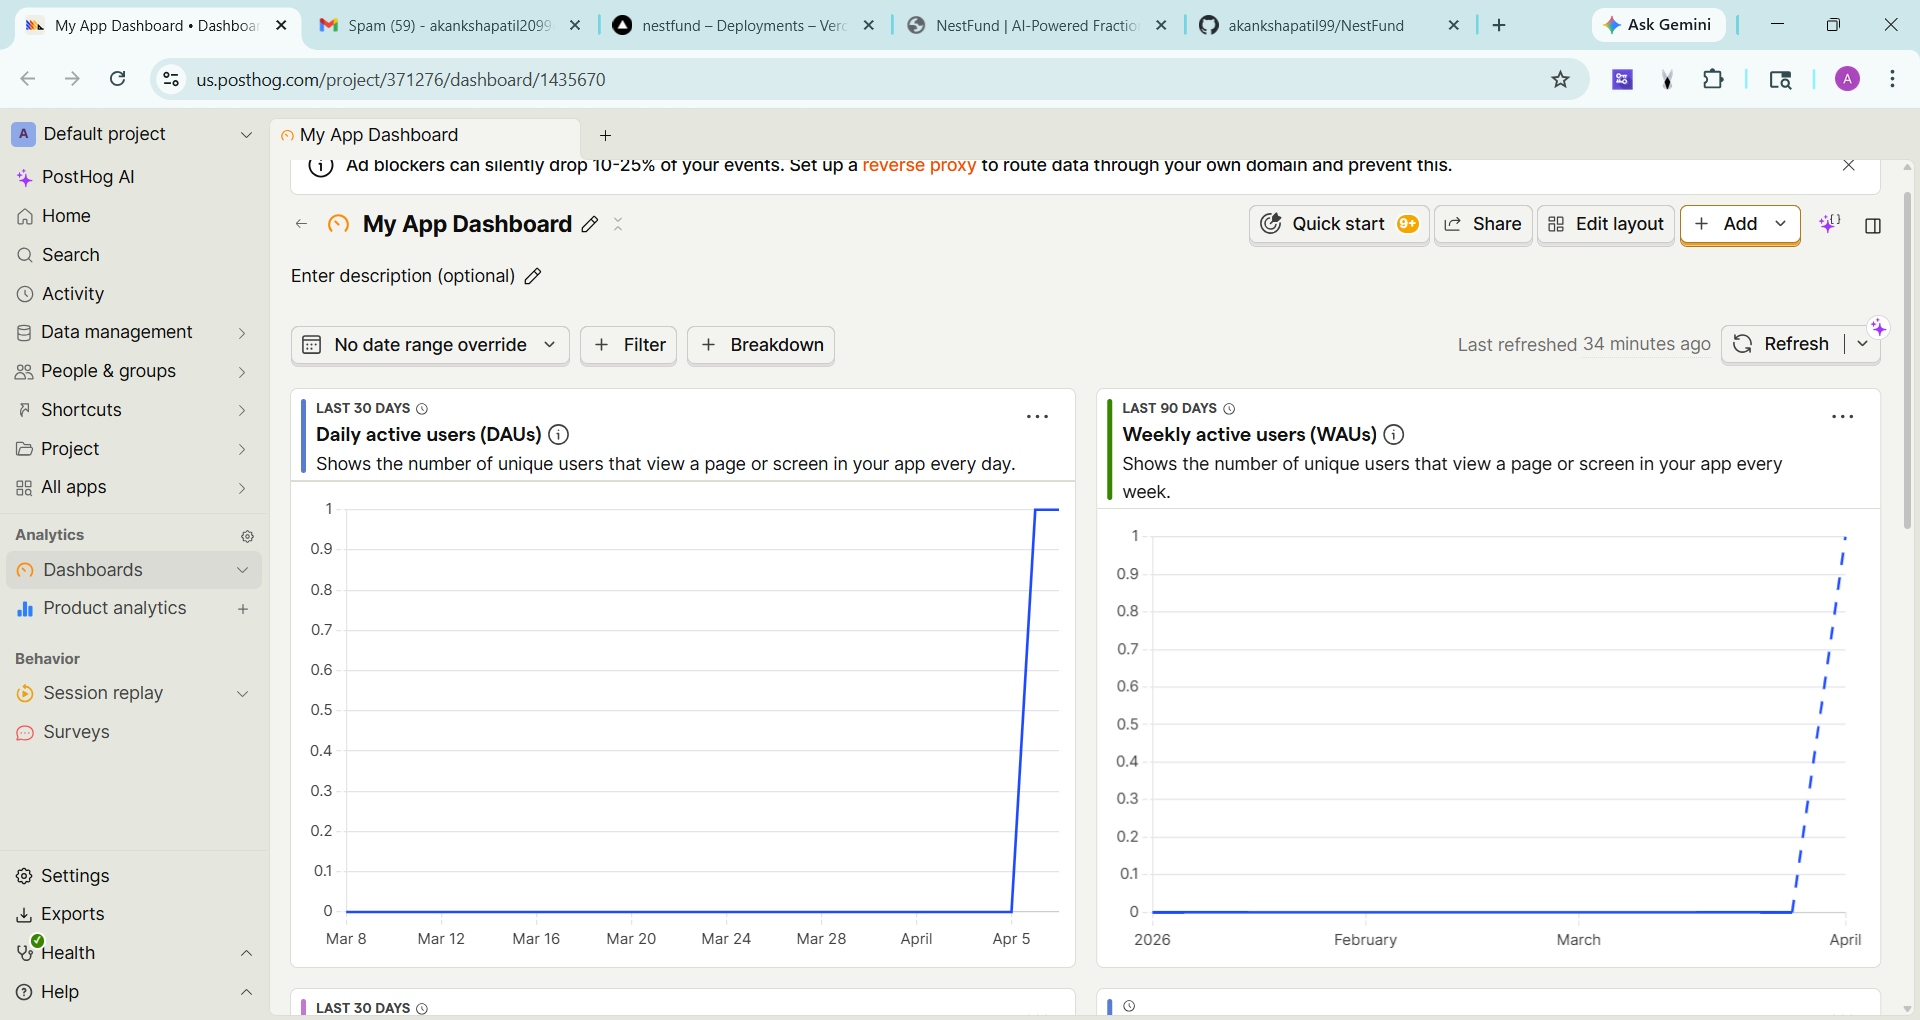
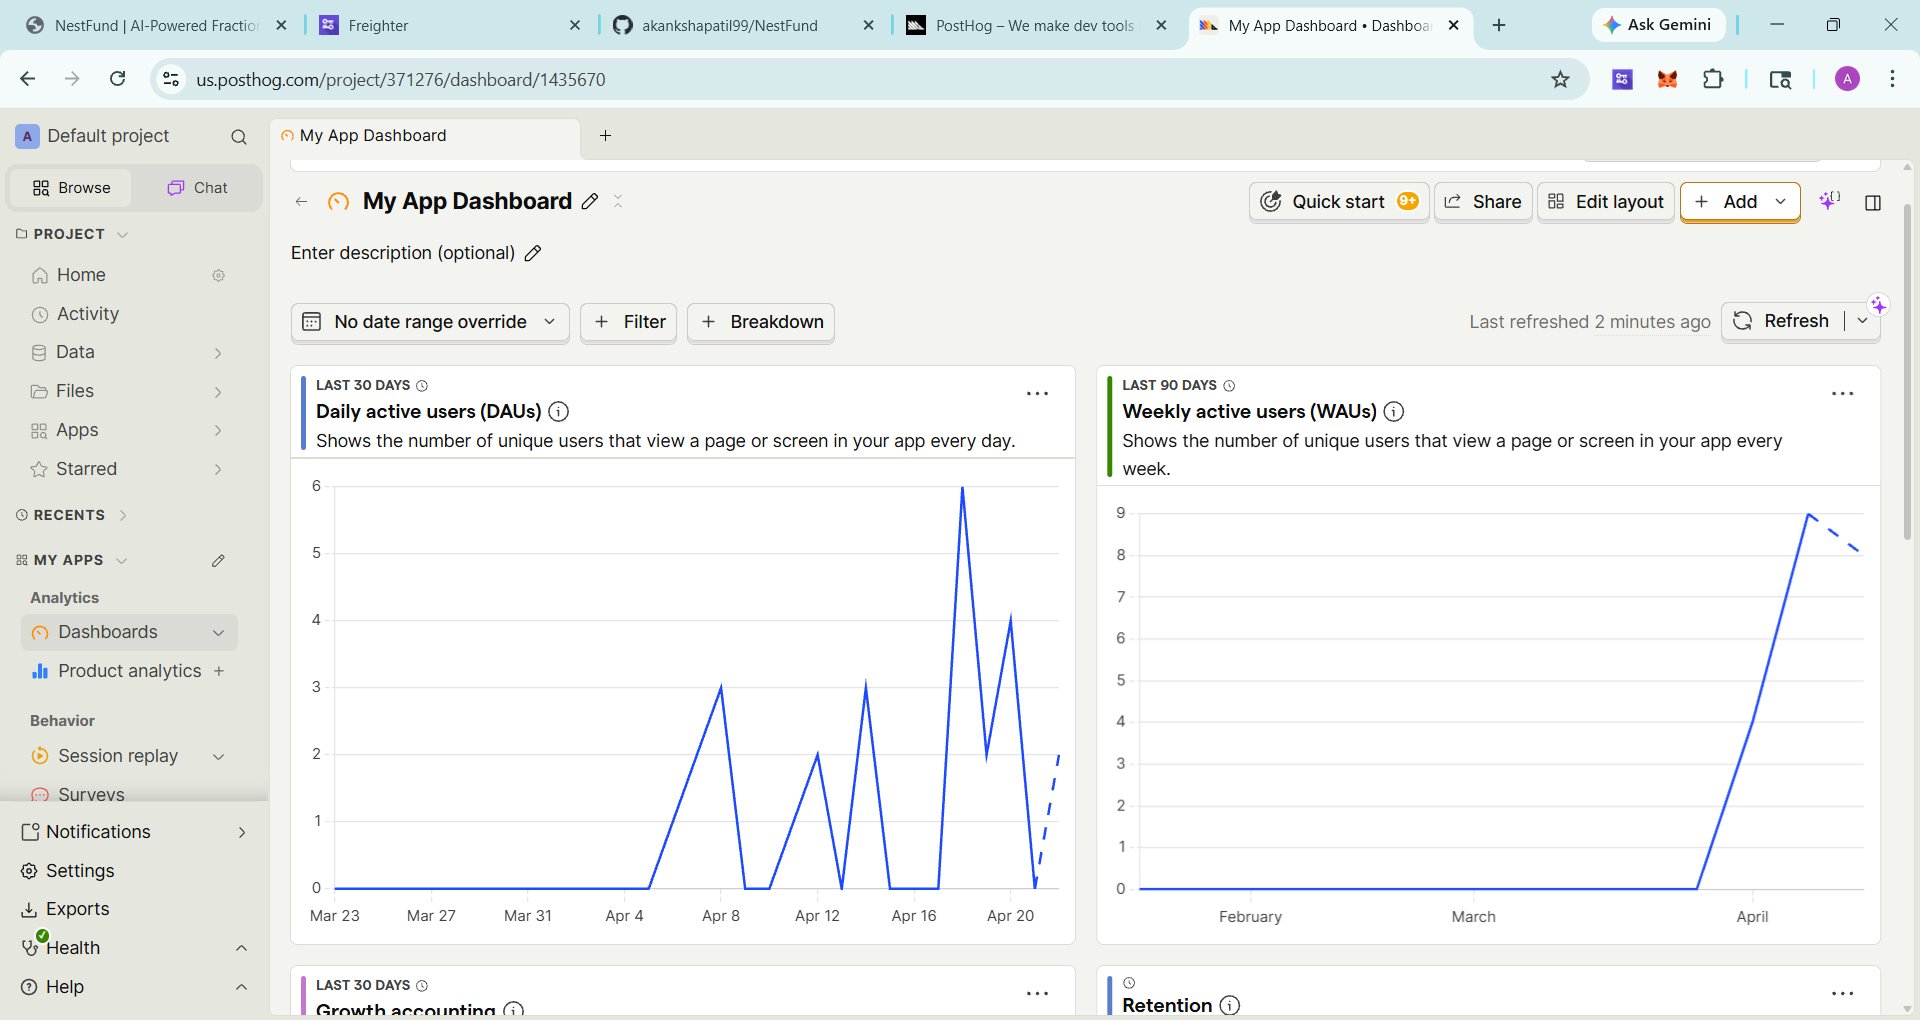
Add PostHog analytics screenshots to README

diff --git a/README.md b/README.md
@@ -248,8 +248,11 @@ NestFund integrates **PostHog** for real-time product analytics, tracking:
 | **Transactions** | Every on-chain investment fires a `transaction_completed` event with amount, asset & tx hash |
 | **Retention** | Wallet-based cohort retention — tracks if users return day 1, day 7, day 30 |
 
-### Live DAU Dashboard (PostHog)
-![NestFund DAU Tracking — PostHog Dashboard](./NF%20videos/DAU.png)
+### Live DAU & WAU Dashboard (PostHog)
+![NestFund DAU & WAU Tracking — PostHog Dashboard](./NF%20videos/DAU.png)
+
+### Growth Accounting & Retention (PostHog)
+![NestFund Growth Accounting & Retention — PostHog Dashboard](./NF%20videos/growth.png)
 
 ---
 
